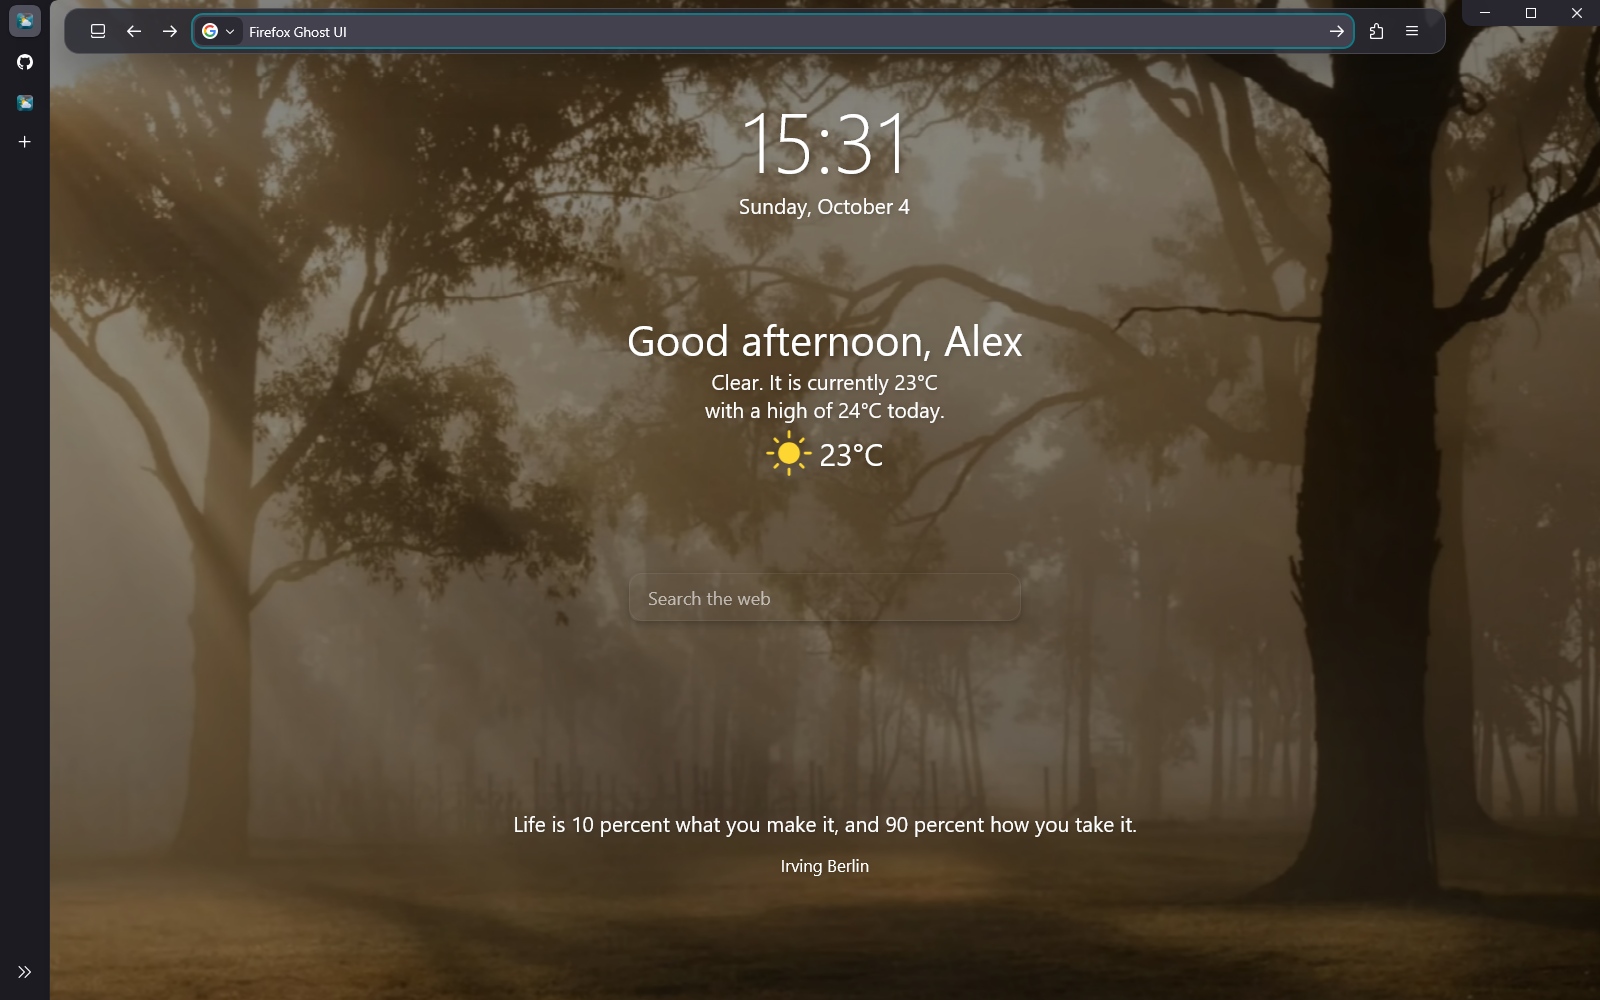
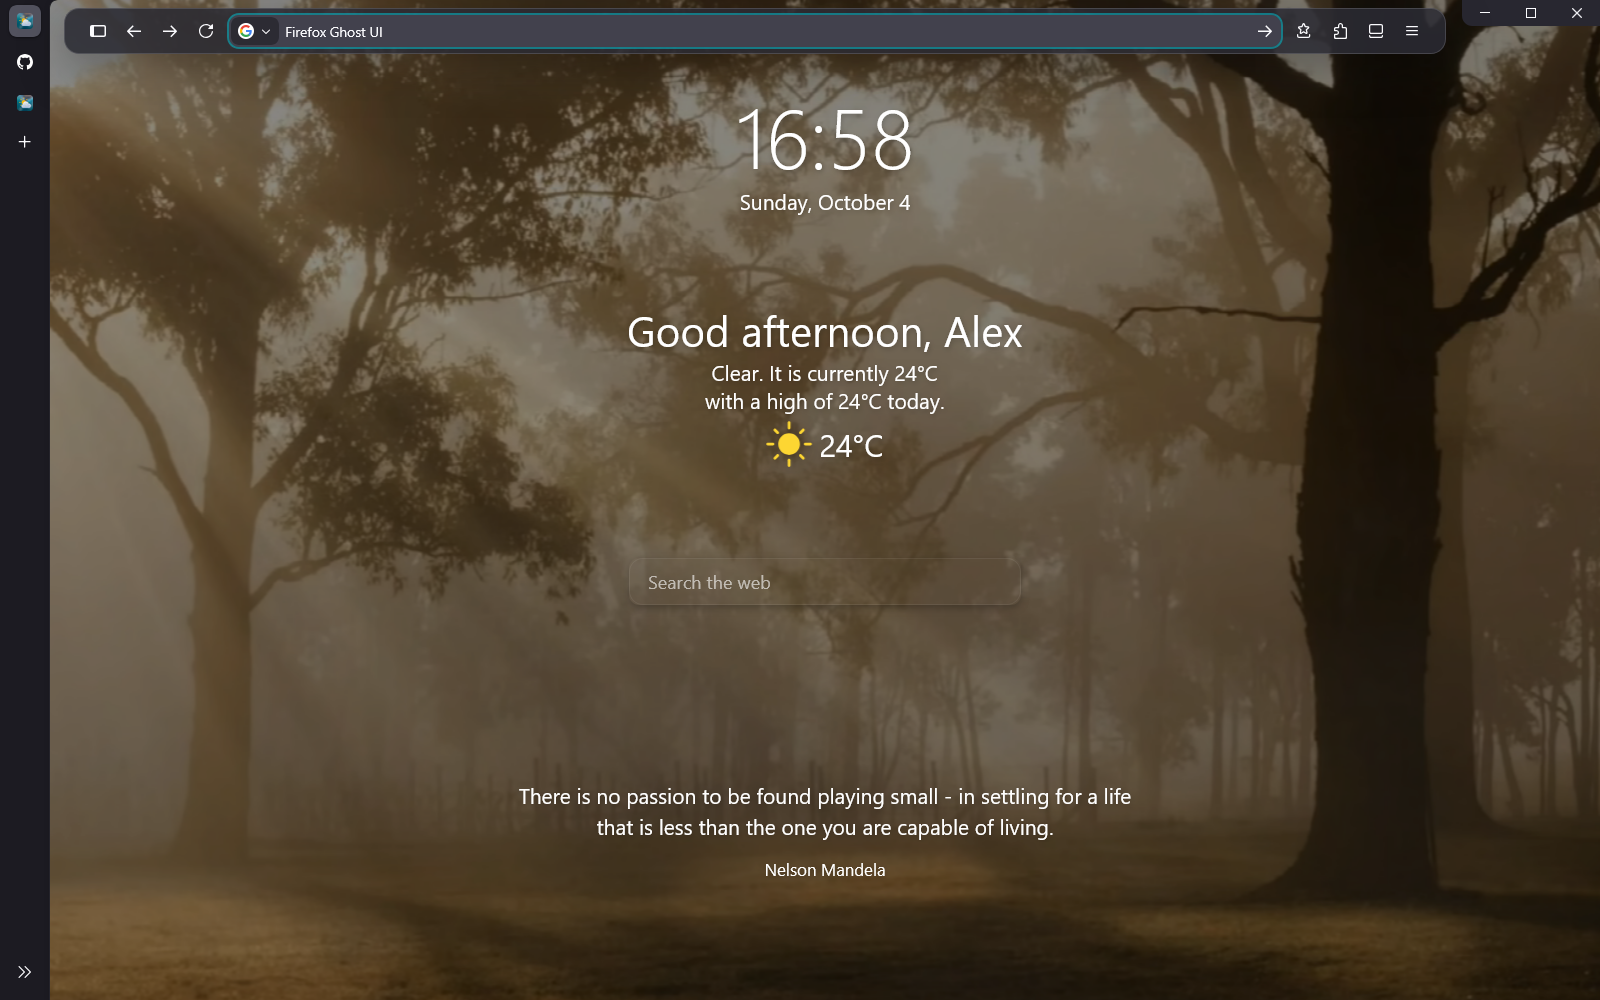
Stabilize toolbar timing and add native bookmarks menu

diff --git a/theme/userChrome.css b/theme/userChrome.css
@@ -2,20 +2,26 @@
    The toolbar keeps its native layout; only its glass shell changes size.
    Back up existing chrome/userChrome.css, replace it, then restart Firefox. */
 
+/* Remember deliberate editing briefly so Enter skips the hover close grace. */
+@property --ghost-edit-session {
+  syntax: "<integer>";
+  inherits: true;
+  initial-value: 0;
+}
+
 :root {
   --ghost-trigger-height: 3px;
-  --ghost-trigger-width: 240px;
-  --ghost-island-width: 168px;
-  --ghost-island-height: 7px;
-  --ghost-open-wait: 725ms;
-  --ghost-open-time: 760ms;
-  --ghost-close-wait: 450ms;
-  --ghost-close-time: 560ms;
+  --ghost-island-width: 128px;
+  --ghost-island-height: 12px;
+  --ghost-open-wait: 120ms;
+  --ghost-open-time: 360ms;
+  --ghost-close-wait: 2000ms;
+  --ghost-close-time: 280ms;
   --ghost-bar-height: 46px;
   --ghost-bar-top: 8px;
   --ghost-rail-width: 50px;
   --ghost-radius: 15px;
-  --ghost-icon-stagger: 48ms;
+  --ghost-icon-stagger: 18ms;
   --ghost-ease: cubic-bezier(.16, 1, .30, 1);
   --ghost-icon-ease: cubic-bezier(.34, 1.3, .64, 1);
   --ghost-surface: color-mix(in srgb, var(--toolbar-background-color, var(--toolbar-bgcolor, #17171b)) 87%, transparent);
@@ -44,31 +50,59 @@
   --ghost-shell-width: var(--ghost-island-width);
   --ghost-shell-height: var(--ghost-island-height);
   --ghost-shell-radius: 999px;
-  --ghost-shell-opacity: 0;
-  --ghost-shell-pointer: none;
+  --ghost-shell-opacity: .38;
+  --ghost-shell-pointer: auto;
+  --ghost-nav-pointer: none;
+  --ghost-nav-delay: var(--ghost-close-wait);
   --ghost-shell-border: transparent;
   --ghost-shell-shadow: 0 4px 14px rgb(0 0 0 / .12);
   --ghost-shell-delay: var(--ghost-close-wait);
   --ghost-shell-time: var(--ghost-close-time);
-  --ghost-shell-fade-delay: 1300ms;
+  --ghost-shell-fade-delay: var(--ghost-close-wait);
   --ghost-content-opacity: 0;
   --ghost-content-visibility: hidden;
   --ghost-content-pointer: none;
   --ghost-content-offset: -5px;
   --ghost-content-scale: .8;
-  --ghost-content-base-delay: 200ms;
-  --ghost-wave-step: -36ms;
+  --ghost-content-base-delay: var(--ghost-close-wait);
+  --ghost-wave-step: 0ms;
+  --ghost-visibility-extra: var(--ghost-content-time);
   --ghost-content-time: 180ms;
-  --ghost-url-delay: 220ms;
+  --ghost-url-delay: var(--ghost-close-wait);
+  --ghost-edit-session: 0;
+  container-name: ghost-navigation;
+  transition: --ghost-edit-session 1ms step-end 2000ms;
 }
 
-/* A narrow deliberate target, instead of covering the page's whole top row. */
+:root[windowtype="navigator:browser"] #navigator-toolbox:is(
+  :has(#urlbar[usertyping][focused]),
+  :has(#urlbar[open]),
+  :has(#urlbar[breakout-extend][focused])
+) {
+  --ghost-edit-session: 1 !important;
+  transition-delay: 0ms;
+}
+
+/* Cancel an already queued hover transition after a submitted address. Firefox
+   computes transition start delays before inherited property animations. */
+@container ghost-navigation style(--ghost-edit-session: 1) {
+  :root:not(:has(:is(:is(panel, menupopup)[panelopen="true"]:not([role="tooltip"]), menupopup[open="true"])))
+  #navigator-toolbox:not(:hover):not(:has(#urlbar:is([usertyping][focused], [open], [breakout-extend][focused]))) #nav-bar::before,
+  :root:not(:has(:is(:is(panel, menupopup)[panelopen="true"]:not([role="tooltip"]), menupopup[open="true"])))
+  #navigator-toolbox:not(:hover):not(:has(#urlbar:is([usertyping][focused], [open], [breakout-extend][focused])))
+  :is(#nav-bar, #urlbar, #urlbar-container, #nav-bar-customization-target > :not(#urlbar-container), #PanelUI-button, #nav-bar-overflow-button) {
+    transition: none !important;
+  }
+}
+
+/* The top 3px edge is easy to reach; the visible pill is a second target. */
 :root[windowtype="navigator:browser"] #navigator-toolbox::before {
   content: "";
   position: fixed;
   top: 0;
-  left: calc((100vw - var(--ghost-trigger-width)) / 2);
-  width: var(--ghost-trigger-width);
+  left: calc(var(--ghost-rail-width) + 14px);
+  right: 154px;
+  width: auto;
   height: var(--ghost-trigger-height);
   background: transparent;
   pointer-events: auto;
@@ -78,11 +112,16 @@
 /* Hover opens after the wait. Window buttons do not trigger the toolbar. */
 :root[windowtype="navigator:browser"]
 #navigator-toolbox:hover:not(:has(#toolbar-menubar .titlebar-buttonbox-container:hover)) {
+  --ghost-edit-session: 0;
+  transition-delay: 0ms;
   --ghost-shell-width: 100%;
   --ghost-shell-height: var(--ghost-bar-height);
   --ghost-shell-radius: var(--ghost-radius);
   --ghost-shell-opacity: 1;
   --ghost-shell-pointer: auto;
+  --ghost-nav-pointer: auto;
+  --ghost-nav-delay: 0ms;
+  --ghost-visibility-extra: 0ms;
   --ghost-shell-border: var(--ghost-border);
   --ghost-shell-shadow: var(--ghost-shadow);
   --ghost-shell-delay: var(--ghost-open-wait);
@@ -93,10 +132,10 @@
   --ghost-content-pointer: auto;
   --ghost-content-offset: 0px;
   --ghost-content-scale: 1;
-  --ghost-content-base-delay: calc(var(--ghost-open-wait) + 370ms);
+  --ghost-content-base-delay: calc(var(--ghost-open-wait) + 80ms);
   --ghost-wave-step: var(--ghost-icon-stagger);
-  --ghost-content-time: 300ms;
-  --ghost-url-delay: calc(var(--ghost-open-wait) + 230ms);
+  --ghost-content-time: 180ms;
+  --ghost-url-delay: calc(var(--ghost-open-wait) + 40ms);
 }
 
 /* Active editing, deliberate address focus, and open popups skip the wait.
@@ -108,12 +147,15 @@
   :has(#urlbar[breakout-extend][focused])
 ),
 /* Passive tab/sidebar previews must not reveal the navigation toolbar. */
-:root[windowtype="navigator:browser"]:has(:is(panel[panelopen="true"]:not([role="tooltip"]), menupopup[open="true"])) #navigator-toolbox {
+:root[windowtype="navigator:browser"]:has(:is(:is(panel, menupopup)[panelopen="true"]:not([role="tooltip"]), menupopup[open="true"])) #navigator-toolbox {
   --ghost-shell-width: 100% !important;
   --ghost-shell-height: var(--ghost-bar-height) !important;
   --ghost-shell-radius: var(--ghost-radius) !important;
   --ghost-shell-opacity: 1 !important;
   --ghost-shell-pointer: auto !important;
+  --ghost-nav-pointer: auto !important;
+  --ghost-nav-delay: 0ms !important;
+  --ghost-visibility-extra: 0ms !important;
   --ghost-shell-border: var(--ghost-border) !important;
   --ghost-shell-shadow: var(--ghost-shadow) !important;
   --ghost-shell-delay: 0ms !important;
@@ -124,7 +166,7 @@
   --ghost-content-pointer: auto !important;
   --ghost-content-offset: 0px !important;
   --ghost-content-scale: 1 !important;
-  --ghost-content-base-delay: 110ms !important;
+  --ghost-content-base-delay: 0ms !important;
   --ghost-wave-step: var(--ghost-icon-stagger) !important;
   --ghost-content-time: 220ms !important;
   --ghost-url-delay: 0ms !important;
@@ -150,7 +192,8 @@
   border: 0 !important;
   box-shadow: none !important;
   overflow: visible !important;
-  pointer-events: none !important;
+  pointer-events: var(--ghost-nav-pointer) !important;
+  transition: pointer-events 1ms step-end var(--ghost-nav-delay) allow-discrete !important;
   color: var(--toolbar-text-color, var(--toolbar-color, #fff)) !important;
   z-index: 101 !important;
 }
@@ -245,7 +288,7 @@
     opacity var(--ghost-content-time) ease var(--ghost-content-delay),
     translate 360ms var(--ghost-ease) var(--ghost-content-delay),
     scale 360ms var(--ghost-icon-ease) var(--ghost-content-delay),
-    visibility 1ms step-end var(--ghost-content-delay) allow-discrete,
+    visibility 1ms step-end calc(var(--ghost-content-delay) + var(--ghost-visibility-extra)) allow-discrete,
     pointer-events 1ms step-end var(--ghost-content-delay) allow-discrete !important;
 }
 
@@ -359,7 +402,7 @@
 
 /* Fullscreen video and F11 use a clean canvas. */
 :root[inFullscreen] :is(#navigator-toolbox::before, #nav-bar, #toolbar-menubar > .titlebar-buttonbox-container) { display: none !important; }
-:root[inFullscreen] :is(#sidebar-container, #sidebar-launcher-splitter, #sidebar-splitter) { display: none !important; }
+:root[inFullscreen] :is(#sidebar-container, #sidebar-box, #sidebar-launcher-splitter, #sidebar-splitter) { display: none !important; }
 :root[inFullscreen] #tabbrowser-tabbox { margin-inline: 0 !important; }
 
 /* Restore normal visible controls while rearranging the toolbar. */

diff --git a/README.ru.md b/README.ru.md
@@ -25,9 +25,11 @@
 
 ## Как работает
 
-При наведении на верхний край по центру сначала появляется небольшой островок, затем через **0,725 секунды** раскрывается панель. **Ctrl+L** открывает строку сразу. После поиска она сворачивается, когда ввод завершён и подсказки закрыты. При открытом меню или наведении панель остаётся доступной.
+Наведи мышь на верхний край в любом месте между вкладками и кнопками окна или на видимую ручку по центру. Панель начинает раскрываться через **0,12 секунды**, а все кнопки появляются примерно за полсекунды. **Ctrl+L** открывает строку сразу. После ухода мыши вся панель остаётся видимой ещё **2 секунды**, затем плавно исчезает. Возвращение мыши отменяет закрытие. После Enter ожидания нет; при вводе и открытых меню панель остаётся доступной.
 
-Кнопки свернуть, развернуть и закрыть всегда доступны справа сверху. Боковая панель раскрывается при наведении, не сдвигая страницу. Пока открыт боковой инструмент, вкладки остаются компактной полоской значков: настройки, история, закладки и расширения полностью видны, а их кнопки не двигаются при наведении. После закрытия инструмента обычное раскрытие вкладок возвращается. Подсказки вкладок не вызывают верхнюю строку. Скрытая панель пропускает клики к странице, кроме полоски вызова высотой 3 пикселя по центру верхнего края. В полноэкранном режиме панели скрыты.
+Кнопка меню закладок открывает сохранённые сайты. Те, что раньше были под адресной строкой, находятся в пункте **Панель закладок** этого меню.
+
+Кнопки свернуть, развернуть и закрыть всегда доступны справа сверху. Боковая панель раскрывается при наведении, не сдвигая страницу. Пока открыт боковой инструмент, вкладки остаются компактной полоской значков: настройки, история, закладки и расширения полностью видны, а их кнопки не двигаются при наведении. После закрытия инструмента обычное раскрытие вкладок возвращается. Подсказки вкладок не вызывают верхнюю строку. Скрытая панель пропускает клики к странице вне видимой ручки и полоски вызова высотой 3 пикселя вдоль верхнего края. Кнопки окна имеют свою отдельную область. В полноэкранном режиме панели скрыты.
 
 ## Автоматическая установка
 
@@ -75,7 +77,9 @@
 
 Если Bonjourr установлен, его CSS подключается через `userContent.css` только для адреса этого расширения в выбранном профиле. Настройки самого Bonjourr не переписываются.
 
-Закладки, история и остальные настройки браузера не редактируются. Процессы Firefox принудительно не завершаются. Другие темы интерфейса могут конфликтовать с оформлением. Для нестандартной папки профиля можно указать путь явно:
+Установщик добавляет кнопку меню закладок, если её ещё нет, сохраняя расположение остальных кнопок. Удаление темы убирает только эту добавленную кнопку и сохраняет последующие изменения панели. Уже существующая кнопка или раскладка, закреплённая через `user.js`, остаётся как настроена; кнопку **Меню закладок** можно добавить вручную в настройке панели инструментов.
+
+Базы закладок и истории не редактируются. Процессы Firefox принудительно не завершаются. Другие темы интерфейса могут конфликтовать с оформлением. Для нестандартной папки профиля можно указать путь явно:
 
 ```powershell
 ./Install.ps1 -ProfilePath 'D:\Firefox Profiles\Personal' -NoPrompt
@@ -88,7 +92,7 @@
 
 ```powershell
 ./tests/Installer.Tests.ps1
-./scripts/Build-Release.ps1 -Version 1.0.1
+./scripts/Build-Release.ps1 -Version 1.0.2
 ```
 
 Проверки используют временные профили и не трогают настоящий браузер. В релиз попадают только файлы из явного списка: личные профили, резервные копии, скриншоты и история разработки исключены.

diff --git a/README.md b/README.md
@@ -25,13 +25,15 @@ Screenshots use an English demo profile with optional [Bonjourr](https://addons.
 
 ## Features
 
-- Hover at the top center: a small island appears, then opens after **725 ms**.
+- Hover anywhere along the usable top edge, or over the visible center pill. Opening starts after **120 ms** and the controls appear within about half a second.
 - **Ctrl+L** opens the address bar immediately.
 - After you submit a search, the toolbar collapses when editing ends and suggestions close. A saved query no longer keeps it open.
 - Menus, extension popups, and active typing keep the toolbar available.
+- Moving away keeps all controls visible for **2 seconds**, then fades them together. Returning cancels closing. Submitting an address skips this wait.
+- A native bookmarks menu button opens your saved sites. Sites from the old bookmarks bar are under **Bookmarks Toolbar** in that menu.
 - Native window buttons stay accessible independently of the toolbar.
 - The sidebar expands on hover over the page, without shifting the page. While a side tool is open, tabs stay in a compact icon rail so its controls remain visible and stationary. Closing the tool restores normal hover expansion. Passive tab previews do not reveal the toolbar.
-- The hidden toolbar passes clicks through, except for its 3-pixel activation strip at the top center.
+- The hidden toolbar passes clicks through outside its visible center pill and 3-pixel top-edge activation strip. The window buttons have their own reserved area.
 - F11 and fullscreen video hide the floating controls and sidebar.
 - Supports reduced motion and Adaptive Tab Bar Colour theme colors.
 - Optional Bonjourr animations preserve its wallpaper, search, links, and settings.
@@ -82,6 +84,8 @@ If a managed file has been manually edited, update/uninstall stops before overwr
 
 - If Bonjourr's extension UUID exists in this profile, adds `userContent.css` scoped to that exact extension URL. No other pages or extensions receive these styles.
 
+The installer adds the native bookmarks menu button if it is absent, preserving existing toolbar placements. Uninstall removes only this addition and keeps later toolbar changes. A preexisting button or a layout enforced through `user.js` is left as configured; you can add **Bookmarks Menu** manually through Customize Toolbar.
+
 The installer does not write bookmark/history databases, replace the rest of your preferences, install add-ons, or terminate Firefox processes. Competing custom browser styles may need adjustment. Microsoft Store profiles or nonstandard locations can be selected explicitly with `-ProfilePath`.
 
 ## Advanced usage
@@ -99,7 +103,7 @@ To adjust the hover delay, edit `--ghost-open-wait` in `theme/userChrome.css` **
 
 ```powershell
 ./tests/Installer.Tests.ps1
-./scripts/Build-Release.ps1 -Version 1.0.1
+./scripts/Build-Release.ps1 -Version 1.0.2
 ```
 
 The tests use disposable profiles only and cover first install, updates, existing CSS and preferences, Bonjourr scoping, rollback, uninstall, profile selection, and protection of edited files. The release builder packages an explicit file list and generates SHA-256 checksums; profiles, personal backups, diagnostics, and Git metadata are excluded.
